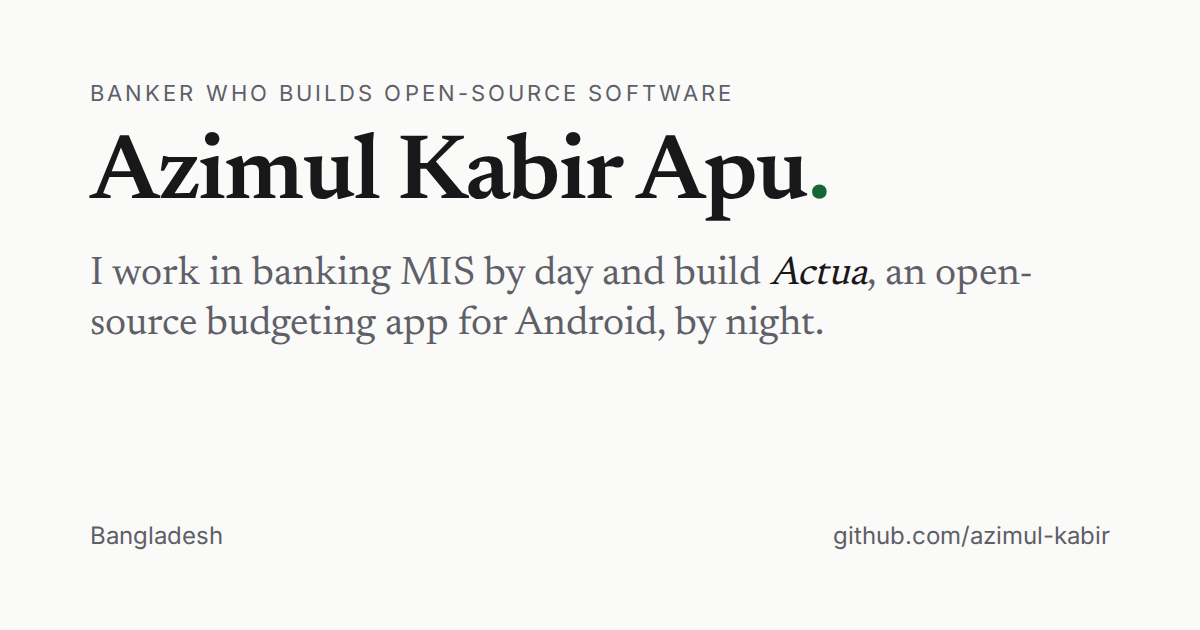
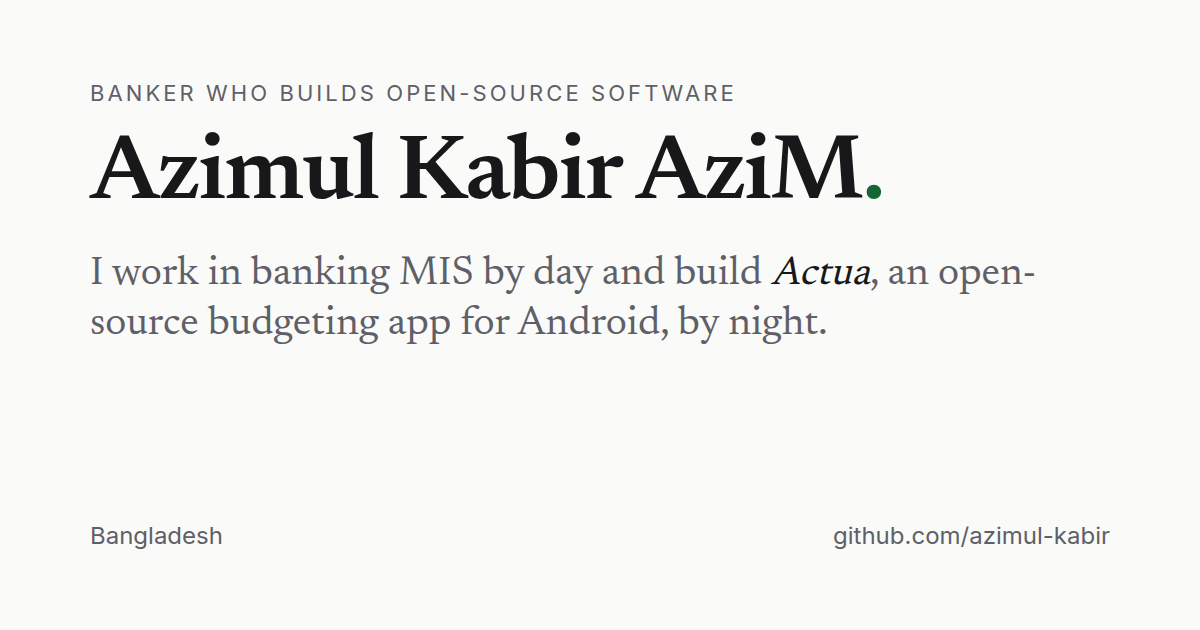
Add portrait photo, rename Apu to AziM, add Discord username
- Add portrait (converted from HEIC) to the About page and as an avatar on /links
- Change nickname Apu to AziM across the site, README and OG image
- Add personal Discord username (azimulkabir); keep the Actua server as a separate link
- Allow social links without a URL and skip them in JSON-LD sameAs

Claude-Session: https://claude.ai/code/session_018Z1iYWdoEQYr8PWEwcTwrM

diff --git a/src/data/profile.ts b/src/data/profile.ts
@@ -1,12 +1,12 @@
 export const profile = {
-  name: 'Azimul Kabir Apu',
-  shortName: 'Apu',
+  name: 'Azimul Kabir AziM',
+  shortName: 'AziM',
   location: 'Bangladesh',
   headline: 'Banker who builds open-source software',
   intro:
     'I work in banking MIS by day and build Actua, an open-source budgeting app for Android, by night.',
   description:
-    'Personal website of Azimul Kabir Apu, a banking professional from Bangladesh who builds open-source software, including Actua, a native Android client for Actual Budget.',
+    'Personal website of Azimul Kabir AziM, a banking professional from Bangladesh who builds open-source software, including Actua, a native Android client for Actual Budget.',
   // Update this whenever the "Now" section changes.
   nowUpdated: '2026-09-30',
   now: [

diff --git a/src/data/social.ts b/src/data/social.ts
@@ -1,6 +1,7 @@
 export type SocialLink = {
   label: string;
-  href: string;
+  /** Omit for handles that have no public profile URL, such as a Discord username. */
+  href?: string;
   note: string;
   /** Show in the site footer. */
   footer?: boolean;
@@ -26,8 +27,12 @@ export const social: SocialLink[] = [
   },
   {
     label: 'Discord',
+    note: 'azimulkabir',
+  },
+  {
+    label: 'Actua Discord',
     href: 'https://discord.gg/FyGxRjmhw',
-    note: 'Actua community',
+    note: 'Actua community server',
   },
   {
     label: 'Instagram',

diff --git a/scripts/og.html b/scripts/og.html
@@ -14,7 +14,7 @@
 </style></head><body>
   <div>
     <div class="eyebrow">Banker who builds open-source software</div>
-    <h1>Azimul Kabir Apu<span class="dot">.</span></h1>
+    <h1>Azimul Kabir AziM<span class="dot">.</span></h1>
     <p>I work in banking MIS by day and build <em>Actua</em>, an open-source budgeting app for Android, by night.</p>
   </div>
   <div class="foot"><span>Bangladesh</span><span>github.com/azimul-kabir</span></div>

diff --git a/README.md b/README.md
@@ -1,6 +1,6 @@
 # azimul-website
 
-Personal website of Azimul Kabir Apu. Built with [Astro](https://astro.build), TypeScript and Tailwind CSS v4, and deployed to GitHub Pages at https://azimul-kabir.github.io.
+Personal website of Azimul Kabir AziM. Built with [Astro](https://astro.build), TypeScript and Tailwind CSS v4, and deployed to GitHub Pages at https://azimul-kabir.github.io.
 
 ## Develop
 
